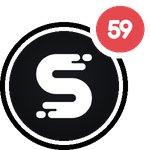
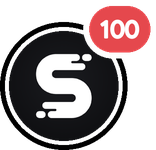
docs: refresh README contributors

diff --git a/README.md b/README.md
@@ -154,7 +154,7 @@ Thank you to everyone who contributes to Rafeeq! Listed by commit contributions,
 
 <!-- CONTRIBUTORS:START -->
 <p>
-  <a href="https://github.com/teamsazen"><picture><source media="(prefers-color-scheme: dark)" srcset=".github/readme/contributors/98111211-dark.png"><img src=".github/readme/contributors/98111211-light.png" alt="teamsazen: 59 commits" title="teamsazen: 59 commits" width="75" height="75"></picture></a>
+  <a href="https://github.com/teamsazen"><picture><source media="(prefers-color-scheme: dark)" srcset=".github/readme/contributors/98111211-dark.png"><img src=".github/readme/contributors/98111211-light.png" alt="teamsazen: 100 commits" title="teamsazen: 100 commits" width="78" height="75"></picture></a>
   <a href="https://github.com/abdushakoor12"><picture><source media="(prefers-color-scheme: dark)" srcset=".github/readme/contributors/60779242-dark.png"><img src=".github/readme/contributors/60779242-light.png" alt="abdushakoor12: 2 commits" title="abdushakoor12: 2 commits" width="74" height="75"></picture></a>
 </p>
 <!-- CONTRIBUTORS:END -->
